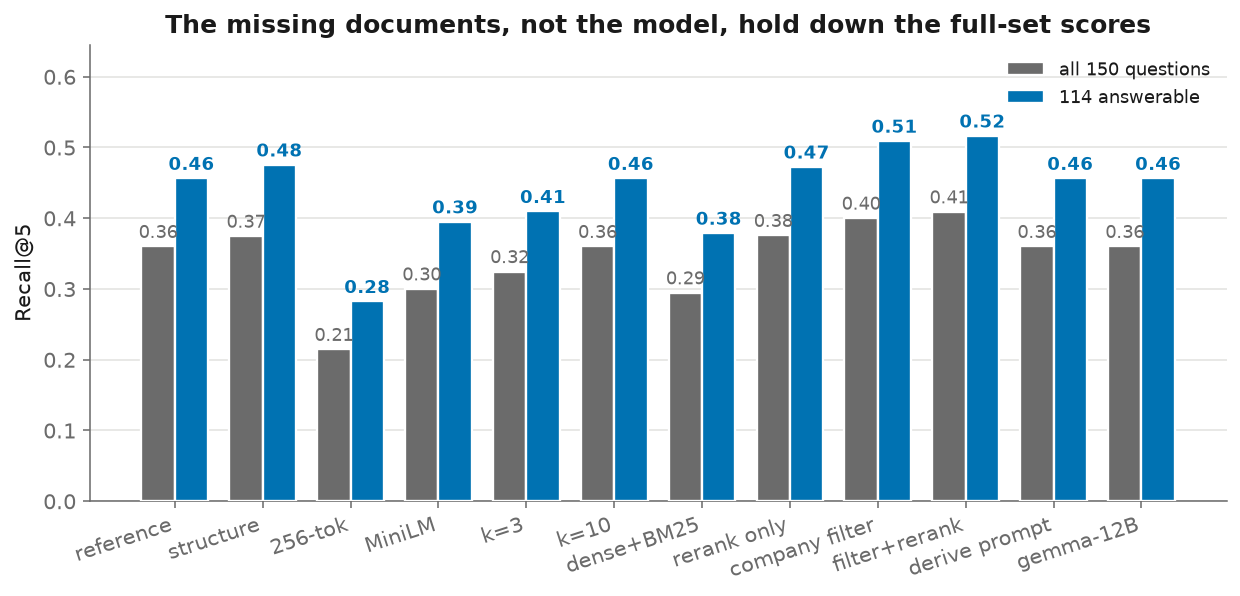
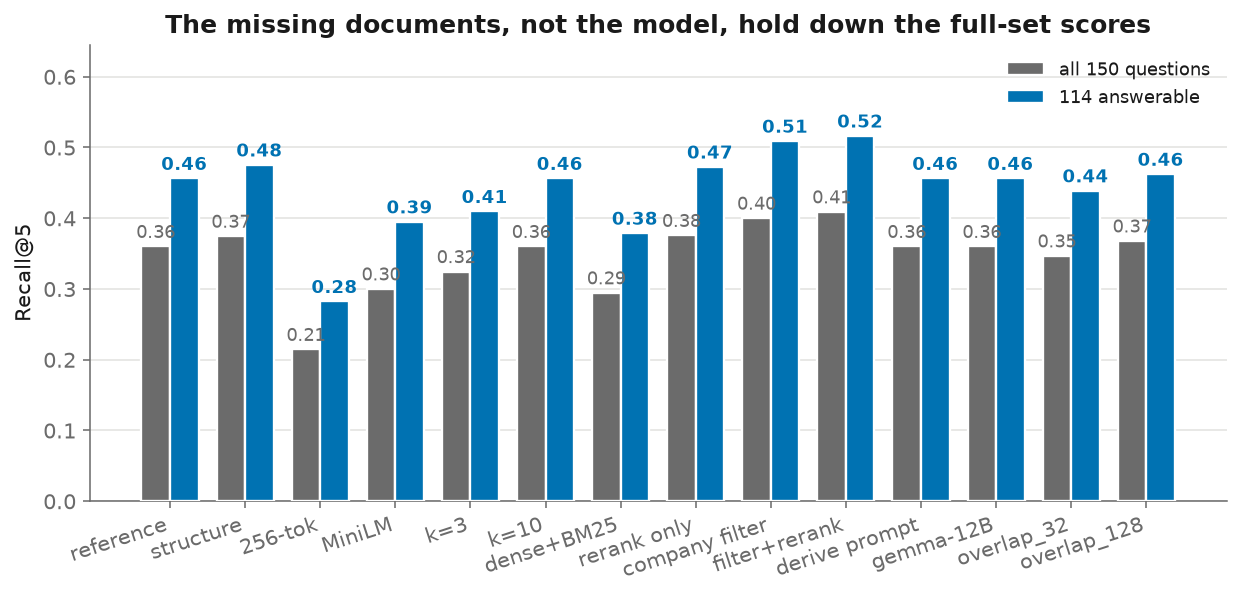
added chunk overlap ablation arm and updated report results

diff --git a/scripts/prebuild_indexes.py b/scripts/prebuild_indexes.py
@@ -35,6 +35,8 @@ logger = logging.getLogger(__name__)
 TARGETS = [
     ("BAAI/bge-base-en-v1.5", "fixed_512_overlap64", "indexes/BAAI_bge-base-en-v1.5__fixed_512_overlap64"),
     ("BAAI/bge-base-en-v1.5", "fixed_256_overlap32", "indexes/BAAI_bge-base-en-v1.5__fixed_256_overlap32"),
+    ("BAAI/bge-base-en-v1.5", "fixed_512_overlap_32", "indexes/BAAI_bge-base-en-v1.5__fixed_512_overlap_32"),
+    ("BAAI/bge-base-en-v1.5", "fixed_512_overlap_128", "indexes/BAAI_bge-base-en-v1.5__fixed_512_overlap_128"),
     ("BAAI/bge-base-en-v1.5", "structure", "indexes/BAAI_bge-base-en-v1.5__structure"),
     ("all-MiniLM-L6-v2", "fixed_512_overlap64", "indexes/all-MiniLM-L6-v2__fixed_512_overlap64"),
 ]

diff --git a/report/report.md b/report/report.md
@@ -62,7 +62,7 @@ reasoning. Answers range from single dollar figures ("$1577.00") to short senten
 
 **Corpus coverage.** Only 282 of the 360 catalogued PDFs still download; the other 78 URLs
 return timeouts, 404s, or 403s from the filers' investor-relations hosts. A further set are
-corrupt (several of the AMD 10-Ks lack a valid PDF root object) or near-empty stubs, so extraction succeeds
+HTML error pages saved with a .pdf extension (such as several AMD 10-Ks) or near-empty stubs, so extraction succeeds
 for 263 documents and 114 of the 150 questions reference a document that yields usable text. We
 therefore report each metric twice, over all 150 questions and over the 114-question answerable
 subset: the first describes the system against the corpus as it exists today, the second isolates
@@ -130,7 +130,7 @@ Retrieval is scored with Recall@k, Precision@k, and mean reciprocal rank; a retr
 counts as matching the gold evidence when it covers at least half of the evidence's content
 words (Section 7.2). Precision@k divides by k rather than by the number of passages returned, so
 a run that retrieves five passages cannot score above 0.5 at k = 10. Generation is scored with
-ROUGE-L, embedding-based semantic similarity, and exact match against the gold answer. Citation
+ROUGE-L, embedding-based semantic similarity, and exact match against the gold answer (exact match is 0.0 across all configurations by design because reference answers are concise figures while generated responses are complete sentences; `numeric_agreement` is introduced to evaluate numerical factual accuracy). Citation
 quality is precision, recall, and F1 over the `[DOCNAME_c<index>]` tags, each checked against the
 passages actually retrieved.
 
@@ -176,7 +176,7 @@ each embedding-and-strategy pair is built once.
 
 The best configuration changes two things at once, so two further arms separate them: reranking is
 run over both a company-filtered and an unfiltered pool, and the filter is run alone with
-generation enabled (Table 2). Of the twelve arms, seven generate answers; the other five vary
+generation enabled (Table 2). Of the fourteen arms, seven generate answers; the other seven vary
 retrieval only, which keeps the sweep affordable since generation dominates its runtime.
 
 ## 5. Results
@@ -198,7 +198,7 @@ configuration.
 constant across configurations, as expected if it comes from missing data rather than any one
 design choice.
 
-Table 1 gives retrieval quality for all twelve configurations on the answerable subset,
+Table 1 gives retrieval quality for all fourteen configurations on the answerable subset,
 ordered by Recall@5.
 
 **Table 1. Retrieval metrics on the 114-question answerable subset.**
@@ -209,10 +209,12 @@ ordered by Recall@5.
 | company filter | retrieval filter | 0.259 | 0.509 | 0.509 | 0.358 |
 | structure-aware chunks | chunk size | 0.244 | 0.475 | 0.475 | 0.333 |
 | reranking, no company filter | reranking | 0.235 | 0.472 | 0.472 | 0.329 |
+| 128-token overlap | chunk overlap | 0.262 | 0.462 | 0.462 | 0.335 |
 | 512-token chunks (reference) | reference | 0.232 | 0.456 | 0.456 | 0.323 |
 | k = 10 | retrieval k | 0.232 | 0.456 | 0.504 | 0.329 |
 | derive prompt | prompting | 0.232 | 0.456 | 0.456 | 0.323 |
 | gemma-4-12B generator | generation model | 0.232 | 0.456 | 0.456 | 0.323 |
+| 32-token overlap | chunk overlap | 0.240 | 0.439 | 0.439 | 0.307 |
 | k = 3 | retrieval k | 0.232 | 0.409 | 0.409 | 0.311 |
 | MiniLM embeddings | embedding model | 0.149 | 0.395 | 0.395 | 0.243 |
 | dense + BM25 hybrid | retrieval filter | 0.124 | 0.379 | 0.379 | 0.218 |
@@ -232,18 +234,20 @@ prompt tells it to refuse, so a retrieval miss becomes an abstention rather than
 
 ![Figure 3](../results/figures/retrieval_ablation.png)
 
-**Figure 3. Recall@5 for all twelve configurations, coloured by ablation axis.** The dashed line
+**Figure 3. Recall@5 for all fourteen configurations, coloured by ablation axis.** The dashed line
 marks the reference. Company filtering followed by reranking gives the highest score;
 structure-aware chunking is the best of the content-only changes. The derive-prompt and gemma
 runs sit exactly on the reference line because neither changes retrieval.
 
-#### Chunk size and structure
+#### Chunk size, structure, and overlap
 
-Chunking has the largest effect on retrieval of any axis. Cutting the fixed window from 512 to
+Chunking parameters have a major effect on retrieval. Cutting the fixed window from 512 to
 256 tokens is clearly harmful: Recall@5 drops from 0.456 to 0.282 and MRR from 0.323 to 0.203,
 because smaller chunks split a table or paragraph across more pieces and a single retrieved chunk
 covers less of the evidence. Structure-aware chunking, which packs whole sentences to a 512-token
 limit so a chunk never ends mid-sentence, is nominally best at Recall@5 0.475 and MRR 0.333.
+
+Varying the sliding overlap at a fixed 512-token chunk size reveals a monotonic relationship with retrieval quality. Reducing overlap from 64 to 32 tokens lowers Recall@5 from 0.456 to 0.439 and MRR from 0.323 to 0.307 (with total chunks falling from 62,339 to 58,214). Increasing overlap to 128 tokens improves Recall@5 to 0.462 and MRR to 0.335 (index size growing to 72,661 chunks). Larger overlap windows ensure financial tables and multi-sentence figures spanning chunk boundaries remain intact in at least one adjacent chunk, raising retrieval recall.
 
 This margin has a caveat. Both 512-token strategies produce chunks longer than the embedder can
 read, and unequally: 47% of reference chunks are truncated against 23% of structure-aware ones

diff --git a/results/results_summary.md b/results/results_summary.md
@@ -11,10 +11,12 @@ answerable subset (documents that yield usable text); the full set is 150.
 | filtered_meta | retrieval_filter | 0.259 | 0.509 | 0.509 | 0.358 |
 | chunk_structure | chunk_size | 0.244 | 0.475 | 0.475 | 0.333 |
 | rerank | reranking | 0.235 | 0.472 | 0.472 | 0.329 |
+| overlap_128 | chunk_overlap | 0.262 | 0.462 | 0.462 | 0.335 |
 | baseline | reference | 0.232 | 0.456 | 0.456 | 0.323 |
 | gen_gemma | generation_model | 0.232 | 0.456 | 0.456 | 0.323 |
 | k_10 | retrieval_k | 0.232 | 0.456 | 0.504 | 0.329 |
 | prompt_derive | prompting | 0.232 | 0.456 | 0.456 | 0.323 |
+| overlap_32 | chunk_overlap | 0.240 | 0.439 | 0.439 | 0.307 |
 | k_3 | retrieval_k | 0.232 | 0.409 | 0.409 | 0.311 |
 | embed_minilm | embedding_model | 0.149 | 0.395 | 0.395 | 0.243 |
 | hybrid | retrieval_filter | 0.124 | 0.379 | 0.379 | 0.218 |
@@ -52,6 +54,8 @@ is the only row where the two columns can differ.
 | prompt_derive | 0.360 | 0.456 |
 | rerank | 0.376 | 0.472 |
 | rerank_filtered | 0.409 | 0.516 |
+| overlap_32 | 0.347 | 0.439 |
+| overlap_128 | 0.368 | 0.462 |
 
 ## Reference run by question type (answerable)
 
